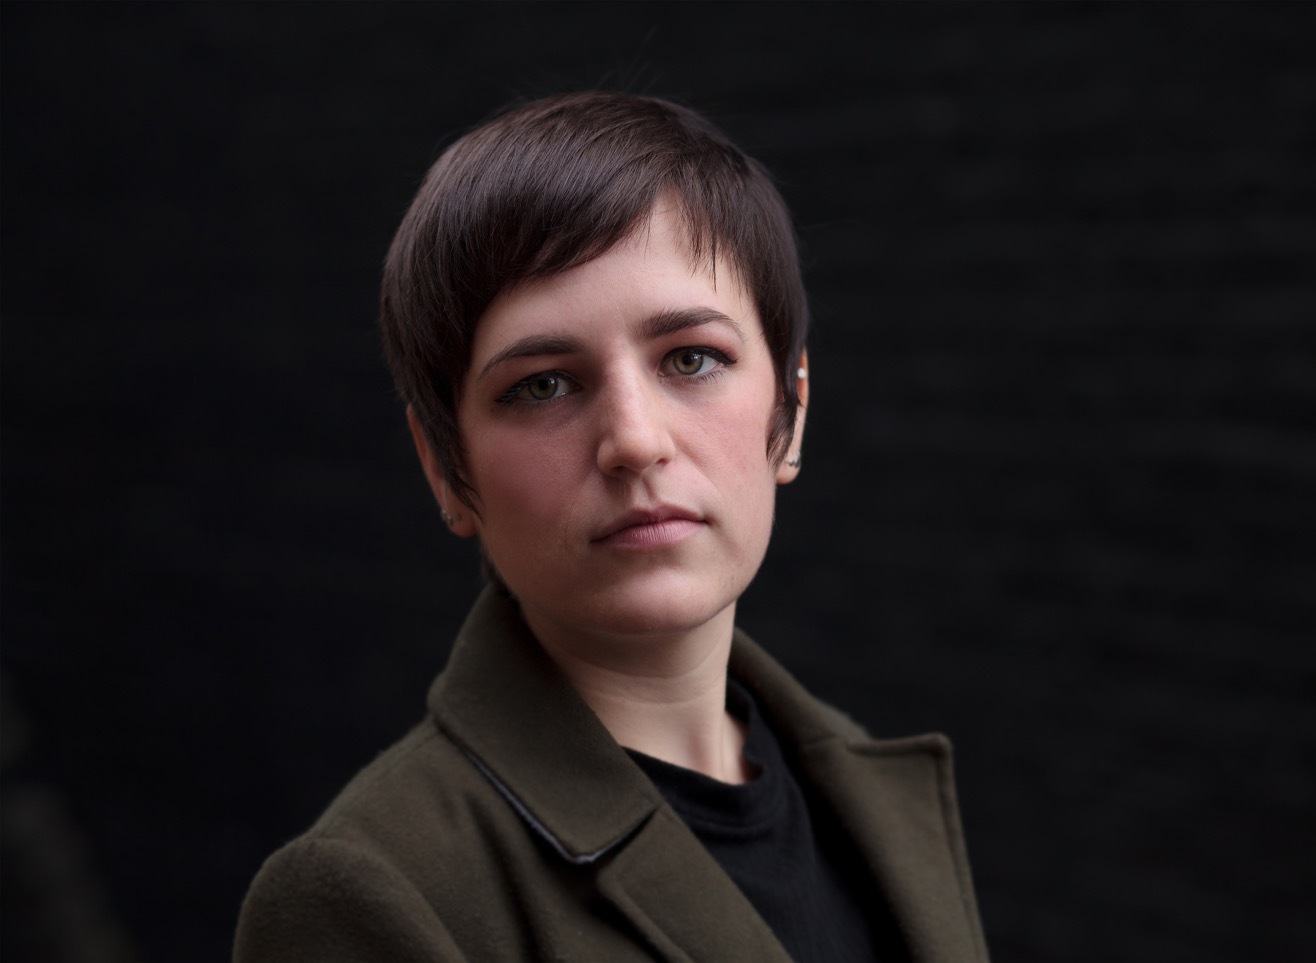
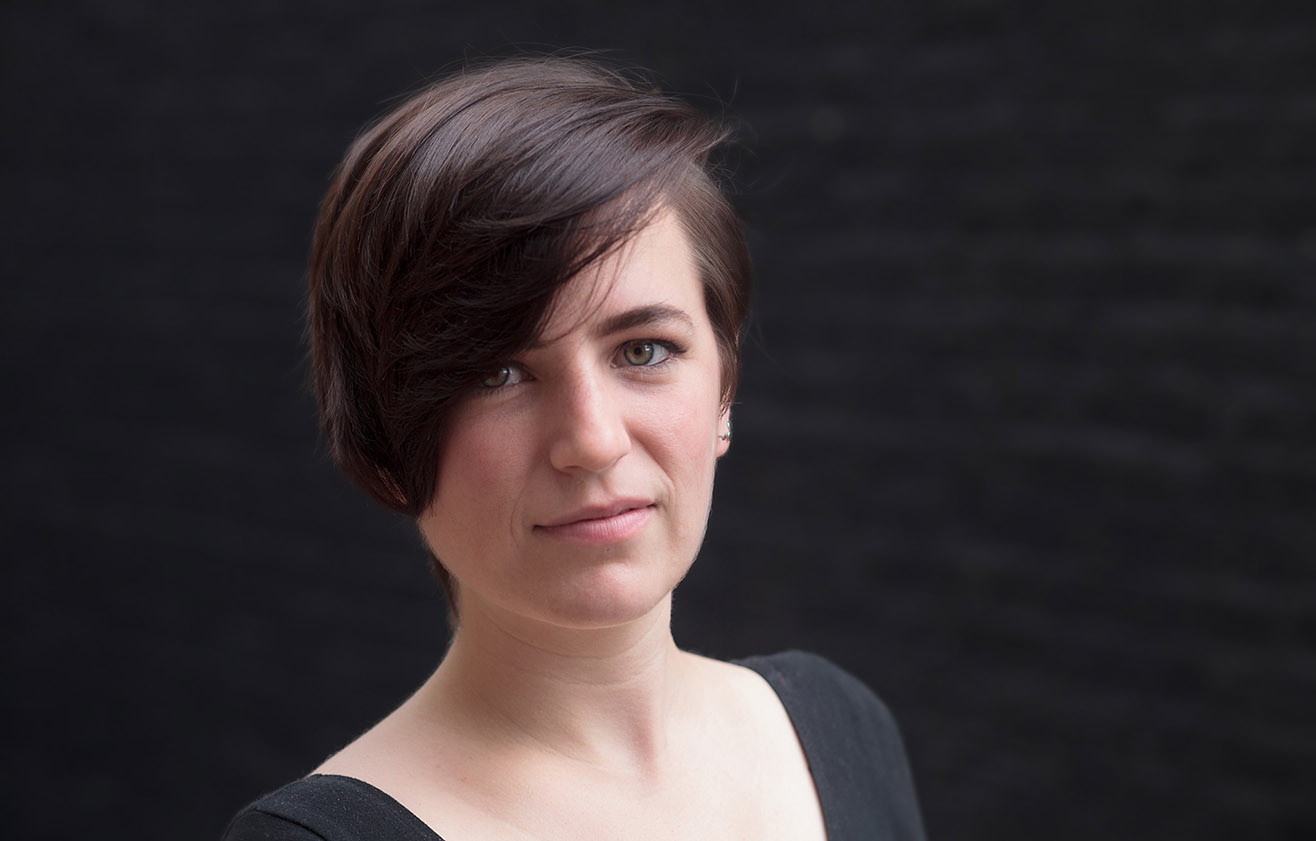
Updating headshots!

diff --git a/content/team/jane.md b/content/team/jane.md
@@ -1,0 +1,10 @@
+---
+metaTitle: Profiles - Jane
+nickName: Janey
+firstName: Jane
+lastName: Campbell
+date: 2017-05-15
+layout: Profile
+thumbnail: /assets/headshots/headshot-jane.jpg
+hero: /assets/headshots/headshot-jane.jpg
+---

diff --git a/content/team/rong.md b/content/team/rong.md
@@ -1,0 +1,10 @@
+---
+metaTitle: Profiles - Rong
+nickName: Rong
+firstName: Rong
+lastName: Lin
+date: 2017-04-10
+layout: Profile
+thumbnail: /assets/headshots/headshot-rong.jpg
+hero: /assets/headshots/headshot-rong.jpg
+---
